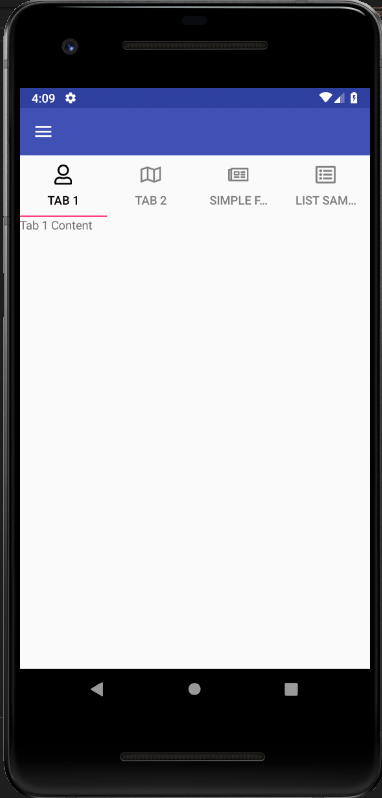
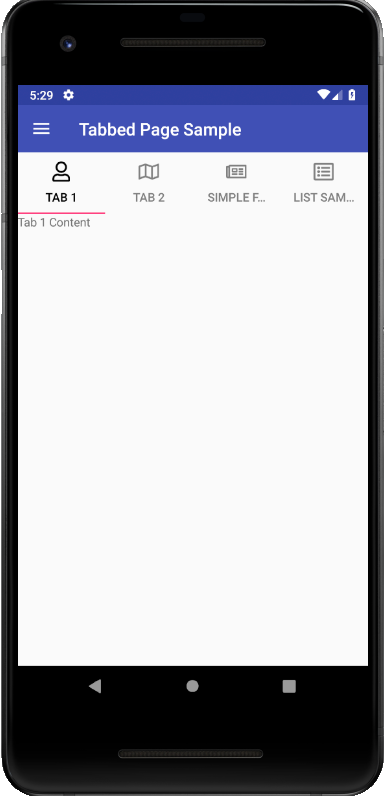
added content-view

Changed region(s): [[0.0, 0.0, 1.0, 1.0], [0.3168, 0.9347, 0.6623, 0.9648]]

diff --git a/src/samples/layout/single-content/content-view/ContentView.tsx b/src/samples/layout/single-content/content-view/ContentView.tsx
@@ -1,18 +1,19 @@
+import Colors from "@web-atoms/core/dist/core/Colors";
 import XNode from "@web-atoms/core/dist/core/XNode";
+import AtomContentView from "@web-atoms/xf-controls/dist/AtomContentView";
 import XF from "@web-atoms/xf-controls/dist/clr/XF";
-import AtomXFContentPage from "@web-atoms/xf-controls/dist/pages/AtomXFContentPage";
 
-export default class ContentView extends AtomXFContentPage {
+export default class ContentView extends AtomContentView {
 
     public create() {
         this.render(
-            <XF.ContentView title="Content View Sample">
-                <XF.StackLayout padding={10}>
-                    <XF.Label text="Item 1" />
-                    <XF.Label text="Item 2" />
-                    <XF.Label text="Item 3" />
-                    <XF.Label text="Item 4" />
-                    <XF.Label text="Item 5" />
+            <XF.ContentView backgroundColor={Colors.grey}>
+                <XF.StackLayout padding={10} backgroundColor={Colors.white}>
+                    <XF.Label text="Item 1" fontSize={20} />
+                    <XF.Label text="Item 2" fontSize={20} />
+                    <XF.Label text="Item 3" fontSize={20} />
+                    <XF.Label text="Item 4" fontSize={20} />
+                    <XF.Label text="Item 5" fontSize={20} />
                 </XF.StackLayout>
             </XF.ContentView>
         );

diff --git a/src/samples/layout/single-content/Sample.tsx b/src/samples/layout/single-content/Sample.tsx
@@ -1,5 +1,5 @@
 import MenuService from "../../../service/menu-service/MenuService";
-import ContentView from "./content-view/ContentView";
+import MainPage from "./content-view/MainPage";
 import FrameSample from "./frame/FrameSample";
 import ScrollViewSample from "./scroll-view/ScrollViewSample";
 
@@ -7,5 +7,5 @@ export default function addSingleContentSample(ms: MenuService) {
     const sv = ms.addGroup("Single Content View");
     sv.addLink("Scroll View", ScrollViewSample);
     sv.addLink("Frame Alert", FrameSample);
-    sv.addLink("Content View", ContentView);
+    sv.addLink("Content View", MainPage);
 }

diff --git a/src/samples/layout/single-content/content-view/MainPage.tsx b/src/samples/layout/single-content/content-view/MainPage.tsx
@@ -1,0 +1,15 @@
+import XNode from "@web-atoms/core/dist/core/XNode";
+import XF from "@web-atoms/xf-controls/dist/clr/XF";
+import AtomXFContentPage from "@web-atoms/xf-controls/dist/pages/AtomXFContentPage";
+import ContentView from "./ContentView";
+
+export default class MainPage extends AtomXFContentPage {
+
+    public create() {
+        this.render(
+            <XF.ContentPage title="Content View Sample">
+                    <ContentView></ContentView>
+            </XF.ContentPage>
+        );
+    }
+}

diff --git a/src/samples/tabbed-page/TabbedPageVIew.tsx b/src/samples/tabbed-page/TabbedPageVIew.tsx
@@ -13,7 +13,7 @@ export default class TabbedPageView extends AtomXFTabbedPage {
 
     public create() {
         this.render(
-            <XF.TabbedPage
+            <XF.TabbedPage title="Tabbed Page Sample"
                 selectedTabColor={Colors.black}
                 unselectedTabColor={Colors.grey}>
                 <XF.ContentPage
